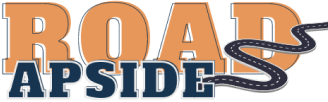
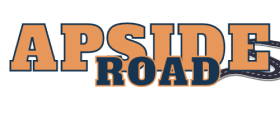
add collaborators page

diff --git a/frontend/src/components/ArrayCollaborators.jsx b/frontend/src/components/ArrayCollaborators.jsx
@@ -1,0 +1,166 @@
+import React from "react";
+import Table from "@mui/material/Table";
+import TableBody from "@mui/material/TableBody";
+import TableCell from "@mui/material/TableCell";
+import TableContainer from "@mui/material/TableContainer";
+import TableHead from "@mui/material/TableHead";
+import TableRow from "@mui/material/TableRow";
+import Paper from "@mui/material/Paper";
+import AccountCircleIcon from "@mui/icons-material/AccountCircle";
+import MailOutlineIcon from "@mui/icons-material/MailOutline";
+import Theo from "../assets/THEOGOSSELIN.png";
+import Coralie from "../assets/CORALIE.png";
+import Julieta from "../assets/JULIETA.png";
+import "../styles/Collaborators.css";
+
+function createData(
+  picture,
+  jointprojects,
+  stacks,
+  agency,
+  contact,
+  iconUser,
+  iconMail
+) {
+  return {
+    picture,
+    jointprojects,
+    stacks,
+    agency,
+    contact,
+    iconUser,
+    iconMail,
+  };
+}
+
+const rows = [
+  createData({
+    id: 1,
+    picture: Theo,
+    name: "Theo",
+    jointprojects: "Aeronautics",
+    stacks: "JavaScript",
+    agency: "Toulouse",
+    contact: "theogosselin@apside.com",
+    iconUser: AccountCircleIcon,
+    iconMail: MailOutlineIcon,
+  }),
+  createData({
+    id: 2,
+    picture: Coralie,
+    name: "Coralie",
+    jointprojects: "Environment",
+    stacks: "JavaScript",
+    agency: "Lyon",
+    contact: "coralieperez@apside.com",
+    iconUser: AccountCircleIcon,
+    iconMail: MailOutlineIcon,
+  }),
+  createData({
+    id: 3,
+    picture: Julieta,
+    name: "Julieta Caldera",
+    jointprojects: "Environment",
+    stacks: "JavaScript",
+    agency: "Paris",
+    contact: "julietacaldera@apside.com",
+    iconUser: AccountCircleIcon,
+    iconMail: MailOutlineIcon,
+  }),
+  createData({
+    id: 4,
+    picture: Theo,
+    name: "Jean",
+    jointprojects: "Aeronautics",
+    stacks: "JavaScript",
+    agency: "Toulouse",
+    contact: "thegosselin@apside.com",
+    iconUser: AccountCircleIcon,
+    iconMail: MailOutlineIcon,
+  }),
+  createData({
+    id: 5,
+    picture: Julieta,
+    name: "Léa",
+    jointprojects: "Aeronautics",
+    stacks: "JavaScript",
+    agency: "Toulouse",
+    contact: "thegosselin@apside.com",
+    iconUser: AccountCircleIcon,
+    iconMail: MailOutlineIcon,
+  }),
+];
+
+function ArrayCollaborators() {
+  return (
+    <TableContainer component={Paper} sx={{ width: 1200 }}>
+      <Table sx={{ minWidth: 650 }} aria-label="simple table">
+        <TableHead>
+          <TableRow>
+            <TableCell
+              sx={{ width: 0, fontSize: 18, fontWeight: 700, color: "#616161" }}
+            >
+              Collaborators
+            </TableCell>
+            <TableCell sx={{ width: 200 }} />
+            <TableCell
+              sx={{ fontSize: 18, fontWeight: 700, color: "#616161" }}
+              align="center"
+            >
+              Joint projects
+            </TableCell>
+            <TableCell
+              sx={{ fontSize: 18, fontWeight: 700, color: "#616161" }}
+              align="center"
+            >
+              Stacks
+            </TableCell>
+            <TableCell
+              sx={{ fontSize: 18, fontWeight: 700, color: "#616161" }}
+              align="center"
+            >
+              Agency
+            </TableCell>
+            <TableCell
+              sx={{ width: 0, fontSize: 18, fontWeight: 700, color: "#616161" }}
+              align="center"
+            >
+              Contact
+            </TableCell>
+            <TableCell sx={{ width: 0 }} />
+          </TableRow>
+        </TableHead>
+        <TableBody>
+          {rows.map((row) => (
+            <TableRow
+              key={row.picture.id}
+              sx={{ "&:last-child td, &:last-child th": { border: 0 } }}
+            >
+              <TableCell
+                component="th"
+                scope="row"
+                sx={{ fontWeight: 700 }}
+                align="center"
+              >
+                <img src={row.picture.picture} alt="" />
+              </TableCell>
+              <TableCell sx={{ fontWeight: 700, fontSize: 16 }} align="center">
+                {row.picture.name}
+              </TableCell>
+              <TableCell align="center">{row.picture.jointprojects}</TableCell>
+              <TableCell align="center">{row.picture.stacks}</TableCell>
+              <TableCell align="center">{row.picture.agency}</TableCell>
+              <TableCell align="center">{row.picture.contact}</TableCell>
+              <TableCell align="center">
+                <AccountCircleIcon className="icon" />
+                <MailOutlineIcon className="icon" />
+              </TableCell>
+            </TableRow>
+          ))}
+        </TableBody>
+      </Table>
+    </TableContainer>
+  );
+}
+
+export default ArrayCollaborators;

diff --git a/frontend/src/pages/Projects.jsx b/frontend/src/pages/Projects.jsx
@@ -11,7 +11,7 @@ import projet4 from "../assets/projet4.jpg";
 
 const projects = [
   {
-    title: "Sed ut perspiciatis unde omnis",
+    title: "Aeronautics Project - 29/06/22",
     description:
       "Nemo enim ipsam voluptatem quia voluptas sit aspernatur aut odit aut fugit, sed quia consequuntur magni dolores eos qui ratione voluptatem sequi nesciunt. Neque porro quisquam est, qui dolorem ipsum quia dolor sit amet.",
     image: projet1,
@@ -30,7 +30,7 @@ const projects = [
     link: "/project",
   },
   {
-    title: "Sed ut perspiciatis unde omnis",
+    title: "Apside Projects - 19/01/21",
     description:
       "Nemo enim ipsam voluptatem quia voluptas sit aspernatur aut odit aut fugit, sed quia consequuntur magni dolores eos qui ratione voluptatem sequi nesciunt. Neque porro quisquam est, qui dolorem ipsum quia dolor sit amet.",
     image: projet2,
@@ -52,16 +52,16 @@ const projects = [
     link: "/project",
   },
   {
-    title: "Sed ut perspiciatis unde omnis",
+    title: "eSport Projects - 15/05/22",
     description:
       "Nemo enim ipsam voluptatem quia voluptas sit aspernatur aut odit aut fugit, sed quia consequuntur magni dolores eos qui ratione voluptatem sequi nesciunt. Neque porro quisquam est, qui dolorem ipsum quia dolor sit amet.",
     image: projet3,
     technologies: [
       {
-        name: "#react",
+        name: "#NextJs",
       },
       {
-        name: "#Node",
+        name: "#AWS",
       },
       {
         name: "#GraphQL",
@@ -74,19 +74,16 @@ const projects = [
     link: "/project",
   },
   {
-    title: "Sed ut perspiciatis unde omnis",
+    title: "Environment Projects - 02/09/21",
     description:
       "Nemo enim ipsam voluptatem quia voluptas sit aspernatur aut odit aut fugit, sed quia consequuntur magni dolores eos qui ratione voluptatem sequi nesciunt. Neque porro quisquam est, qui dolorem ipsum quia dolor sit amet.",
     image: projet4,
     technologies: [
       {
-        name: "#react",
+        name: "#JavaScript",
       },
       {
-        name: "#Node",
-      },
-      {
-        name: "#GraphQL",
+        name: "#Python",
       },
       {
         name: "...more",

diff --git a/frontend/src/styles/ProjectCard.css b/frontend/src/styles/ProjectCard.css
@@ -3,7 +3,7 @@
   background-color: white;
   width: 600px;
   height: 560px;
-  box-shadow: 0 0 14px 3px rgba(0, 0, 0, 0.12);
+  box-shadow: 0 0 10px 3px rgba(0, 0, 0, 0.12);
   border-radius: 8px;
   margin: 1rem;
 }
@@ -11,6 +11,7 @@
 .project-card-link {
   text-decoration: none;
   color: inherit;
+  width: fit-content;
 }
 
 .project-container img {
@@ -18,7 +19,6 @@
   height: 300px;
   border-top-left-radius: 8px;
   border-top-right-radius: 8px;
-  box-shadow: 1px 10px 10px -5px rgba(0, 0, 0, 0.33);
 }
 
 .tech-list {
@@ -32,8 +32,7 @@
   border-radius: 50px;
   color: inherit;
   padding: 8px 16px;
-  background-color: #eeeeee;
-  box-shadow: 4px 4px 8px 0.5px rgba(0, 0, 0, 0.22);
+  box-shadow: 0px 0px 10px 0.5px rgba(0, 0, 0, 0.22);
 }
 
 .project-text-container {
@@ -43,4 +42,9 @@
 .arrow-container {
   display: grid;
   place-items: center;
+}
+
+.project-card-link h2,
+p {
+  margin: 1rem;
 }

diff --git a/frontend/src/App.jsx b/frontend/src/App.jsx
@@ -6,6 +6,7 @@ import "./App.css";
 import Projects from "./pages/Projects";
 import AddProjects from "./pages/AddProjects";
 import Profil from "./pages/Profil";
+import Collaborators from "./pages/Collaborators";
 
 function App() {
   return (
@@ -18,7 +19,7 @@ function App() {
           <Route path="/add-project" element={<AddProjects />} />
           <Route path="/customers" element={<Home />} />
           <Route path="/press-review" element={<Home />} />
-          <Route path="/collaborators" element={<Home />} />
+          <Route path="/collaborators" element={<Collaborators />} />
           <Route path="/ideas" element={<Home />} />
           <Route path="/profil" element={<Profil />} />
         </Routes>

diff --git a/frontend/src/pages/Collaborators.jsx b/frontend/src/pages/Collaborators.jsx
@@ -1,0 +1,27 @@
+import React from "react";
+import { TextField } from "@mui/material";
+import ArrayCollaborators from "../components/ArrayCollaborators";
+import SpeedDial from "../components/SpeedDial";
+import logo from "../assets/ROAD.png";
+import "../styles/Collaborators.css";
+
+function Collaborators() {
+  return (
+    <div>
+      <header className="top-bar">
+        <img src={logo} alt="logo" />
+        <SpeedDial />
+      </header>
+      <div className="table">
+        <TextField
+          placeholder="Jean Dupont
+          "
+          sx={{ align: "center", width: 1200, padding: 5 }}
+        />
+        <ArrayCollaborators />
+      </div>
+    </div>
+  );
+}
+
+export default Collaborators;

diff --git a/frontend/src/pages/Home.jsx b/frontend/src/pages/Home.jsx
@@ -8,7 +8,7 @@ import Projects from "../assets/PROJECTS.png";
 import Profil from "../assets/PROFIL.png";
 import Customers from "../assets/CUSTOMERS.png";
 import Logout from "../assets/LOGOUT.png";
-import Logo from "../assets/ROAD.png";
+import Logo from "../assets/ROAD_BLUE.png";
 
 function Home() {
   return (

diff --git a/frontend/src/components/HeaderLogo.jsx b/frontend/src/components/HeaderLogo.jsx
@@ -1,5 +1,5 @@
 import React from "react";
-import ROAD from "../assets/ROAD.png";
+import ROAD from "../assets/ROAD_BLUE.png";
 
 function HeaderLogo() {
   return (

diff --git a/frontend/src/styles/Collaborators.css b/frontend/src/styles/Collaborators.css
@@ -1,0 +1,10 @@
+.icon {
+  cursor: pointer;
+}
+
+.table {
+  display: flex;
+  justify-content: center;
+  flex-direction: column;
+  align-items: center;
+}

diff --git a/frontend/src/styles/Home.css b/frontend/src/styles/Home.css
@@ -122,5 +122,5 @@
 .logo {
   position: absolute;
   left: 0;
-  margin: 2rem;
+  margin: 1rem;
 }
